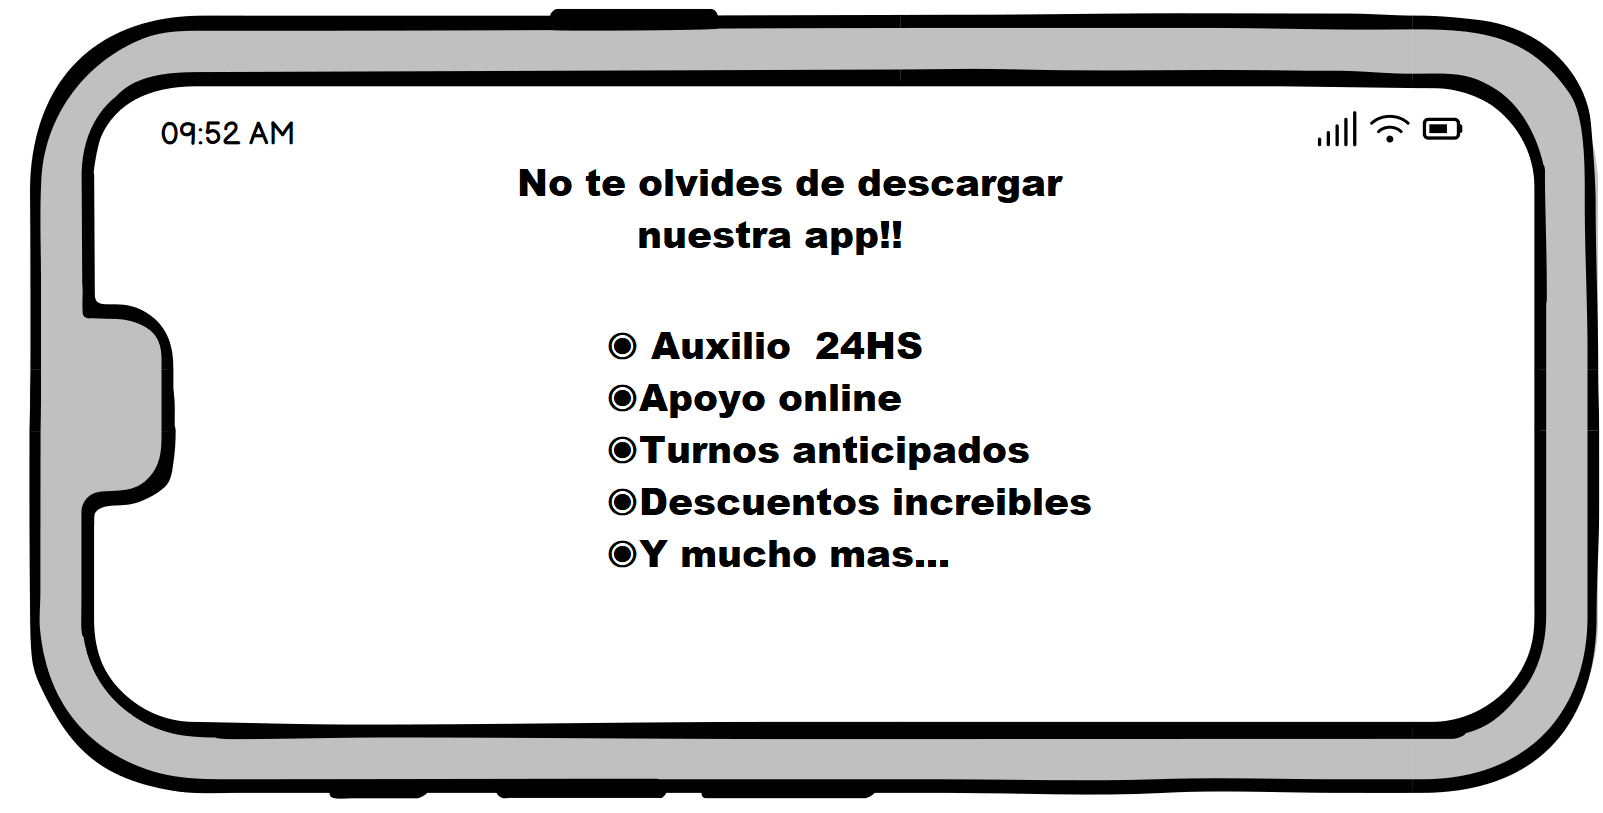
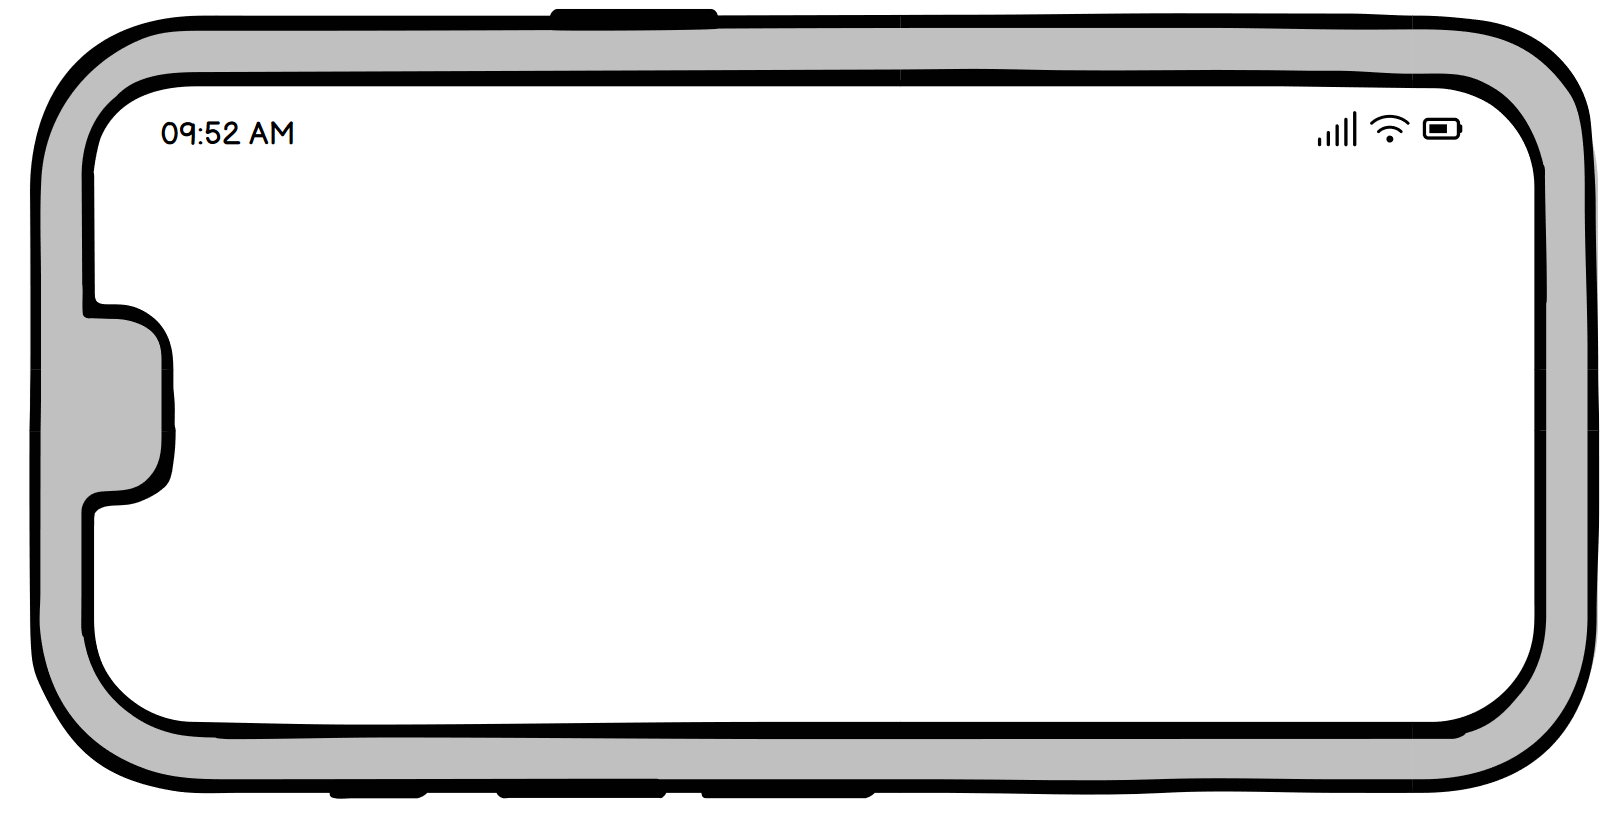
cambios en contacto e index

Changed region(s): [[0.3743, 0.3998, 0.6862, 0.7073], [0.3119, 0.2153, 0.6862, 0.246], [0.3743, 0.2768, 0.5614, 0.3075]]

diff --git a/css/main.css b/css/main.css
@@ -46,16 +46,37 @@ footer {
   .card .card-title {
     font-family: "kanit"; }
 
-.main-conta {
-  padding: 40px 20px; }
-  .main-conta .texto-conta {
-    font-family: "kanit"; }
-  .main-conta .formulario {
-    display: flex;
-    flex-direction: column; }
-  @media (max-width: 575.98px) {
-    .main-conta .mapa {
-      max-width: 100%; } }
+.main-conta .banner-conta {
+  width: auto;
+  height: 200px;
+  position: relative;
+  text-align: center; }
+  .main-conta .banner-conta img {
+    object-fit: cover;
+    width: 100%;
+    height: 100%; }
+  .main-conta .banner-conta h1 {
+    text-shadow: 3px 3px 3px #7c99b4;
+    font-family: "kanit";
+    color: #5B5750;
+    position: absolute;
+    top: 50%;
+    left: 50%;
+    transform: translate(-50%, -50%); }
+
+.main-conta .container-fluid {
+  padding: 40px 20px 40px 20px !important; }
+
+.main-conta .texto-conta {
+  font-family: "kanit"; }
+
+.main-conta .formulario {
+  display: flex;
+  flex-direction: column; }
+
+@media (max-width: 575.98px) {
+  .main-conta .mapa {
+    max-width: 100%; } }
 
 .main-equip .titulo-equip {
   padding: 40px 20px 30px;
@@ -114,13 +135,63 @@ footer {
   width: auto;
   max-height: 100%;
   display: flex;
+  align-items: center;
   justify-content: center;
-  align-items: center; }
+  position: relative;
+  text-align: center; }
   .main-index .container-celu .celu {
     max-width: 50%; }
     @media (max-width: 575.98px) {
       .main-index .container-celu .celu {
         max-width: 100%; } }
+  .main-index .container-celu .titulo-celu {
+    text-shadow: 3px 3px 3px #7c99b4;
+    font-family: "kanit";
+    color: #5B5750;
+    position: absolute;
+    top: 30%;
+    left: 50%;
+    transform: translate(-50%, -50%); }
+  .main-index .container-celu .item-1 {
+    text-shadow: 3px 3px 3px #7c99b4;
+    font-family: "kanit";
+    color: #5B5750;
+    position: absolute;
+    top: 40%;
+    left: 50%;
+    transform: translate(-50%, -50%); }
+  .main-index .container-celu .item-2 {
+    text-shadow: 3px 3px 3px #7c99b4;
+    font-family: "kanit";
+    color: #5B5750;
+    position: absolute;
+    top: 50%;
+    left: 50%;
+    transform: translate(-50%, -50%); }
+  .main-index .container-celu .item-3 {
+    text-shadow: 3px 3px 3px #7c99b4;
+    font-family: "kanit";
+    color: #5B5750;
+    position: absolute;
+    top: 60%;
+    left: 50%;
+    transform: translate(-50%, -50%); }
+  .main-index .container-celu .item-4 {
+    text-shadow: 3px 3px 3px #7c99b4;
+    font-family: "kanit";
+    color: #5B5750;
+    position: absolute;
+    top: 70%;
+    left: 50%;
+    transform: translate(-50%, -50%); }
+  .main-index .container-celu .item-5 {
+    text-shadow: 3px 3px 3px #7c99b4;
+    font-family: "kanit";
+    color: #5B5750;
+    position: absolute;
+    top: 80%;
+    left: 50%;
+    transform: translate(-50%, -50%); }
 
 main .titulo-tcn {
   padding: 40px 0px 10px;

diff --git a/scss/pages/index.scss b/scss/pages/index.scss
@@ -29,14 +29,71 @@
         width: auto;
         max-height: 100%;
         display: flex;
-        justify-content: center;
         align-items: center;
+        justify-content: center;
+        position: relative;
+        text-align: center;
+    
         .celu{
             max-width: 50%;
             @media (max-width: 575.98px) {
                 max-width: 100%;
                 }
           }
+        .titulo-celu{
+          text-shadow: 3px 3px 3px $color-primario;
+          font-family: $tipografia-1;
+          color: $color-secundario;
+          position: absolute;
+          top: 30%;
+          left: 50%;
+          transform: translate(-50%, -50%);
+        }
+        .item-1{
+          text-shadow: 3px 3px 3px $color-primario;
+          font-family: $tipografia-1;
+          color: $color-secundario;
+          position: absolute;
+          top: 40%;
+          left: 50%;
+          transform: translate(-50%, -50%);
+        }
+        .item-2{
+          text-shadow: 3px 3px 3px $color-primario;
+          font-family: $tipografia-1;
+          color: $color-secundario;
+          position: absolute;
+          top: 50%;
+          left: 50%;
+          transform: translate(-50%, -50%);
+        }
+        .item-3{
+          text-shadow: 3px 3px 3px $color-primario;
+          font-family: $tipografia-1;
+          color: $color-secundario;
+          position: absolute;
+          top: 60%;
+          left: 50%;
+          transform: translate(-50%, -50%);
+        }
+        .item-4{
+          text-shadow: 3px 3px 3px $color-primario;
+          font-family: $tipografia-1;
+          color: $color-secundario;
+          position: absolute;
+          top: 70%;
+          left: 50%;
+          transform: translate(-50%, -50%);
+        }
+        .item-5{
+          text-shadow: 3px 3px 3px $color-primario;
+          font-family: $tipografia-1;
+          color: $color-secundario;
+          position: absolute;
+          top: 80%;
+          left: 50%;
+          transform: translate(-50%, -50%);
+        }
         }
     
       

diff --git a/Pages/conta.html b/Pages/conta.html
@@ -42,18 +42,16 @@
             </nav>
           </header>
           <main class="main-conta">
-            <div class="container">
-              <div class="row">
-                <div class="col-xl-6 col-xxl-6 col-12">
-                  <h1 class="texto-conta">
-                  Contactanos via mail!
-                  </h1>
-                </div>
-              </div>
-            </div>
+            <div class="banner-conta">
+              <img src="../imagenes/banner contacto.jpg" alt="banner contacto">
+              <h1>Contactanos</h1>
+            </div> 
             <div class="container-fluid">
               <div class="row">
                 <div class="col-xl-6 col-xxl-6 col-12">
+                  <h2 class="texto-conta">
+                    Contactanos via mail
+                  </h2>
                   <form action="" method="" enctype="multipart/form-data">
                     <fieldset class="formulario">
                     <input class="subform" id="fullname" type="text" placeholder="Nombre"> 
@@ -66,7 +64,11 @@
                     <img src="../imagenes/1161954_instagram_icon.png" alt="" width="50px" height="50px">@MECANICAINTEGRAL
                   </h4>
                 </div>
+                
                 <div class="col-xl-6 col-xxl-6 col-12">
+                  <h2 class="texto-conta">
+                    O vení a conocernos!
+                  </h2>
                   <iframe class="mapa" src="https://www.google.com/maps/embed?pb=!1m18!1m12!1m3!1d3478927.370298863!2d-23.73028115074261!3d64.80138097246007!2m3!1f0!2f0!3f0!3m2!1i1024!2i768!4f13.1!3m3!1m2!1s0x48d22b52a3eb6043%3A0x6f8a0434e5c1459a!2sIslandia!5e0!3m2!1ses-419!2sar!4v1673575133069!5m2!1ses-419!2sar" width="600" height="400" style="border:0;" allowfullscreen="" loading="lazy" referrerpolicy="no-referrer-when-downgrade"></iframe>
                   <h2 class="texto-conta">
                     <img src="../imagenes/287637_whatsapp_icon.png" alt="" width="45px" height="45px">11.1111.1111

diff --git a/scss/pages/conta.scss b/scss/pages/conta.scss
@@ -1,5 +1,27 @@
 .main-conta{
-  padding: 40px 20px;
+  .banner-conta{
+    width: auto;
+    height: 200px;
+    position: relative;
+    text-align: center;
+    img{
+      object-fit: cover;
+      width:100%;
+      height:100%;
+    }
+    h1{
+      text-shadow: 3px 3px 3px $color-primario;
+      font-family: $tipografia-1;
+      color: $color-secundario;
+      position: absolute;
+      top: 50%;
+      left: 50%;
+      transform: translate(-50%, -50%);
+    }
+  }
+  .container-fluid{
+    padding: 40px 20px 40px 20px !important;
+  }
   .texto-conta{
     font-family: $tipografia-1;
     }

diff --git a/index.html b/index.html
@@ -68,6 +68,12 @@
             
             <div class="container-celu">
                 <img class="celu" src="./imagenes/celu.PNG" alt="">
+                <p class="titulo-celu">No te olvides de descargar nuestra app!</p>
+                <p class="item-1">◉ Auxilio 24HS</p>
+                <p class="item-2">◉ Apoyo online</p>
+                <p class="item-3">◉ Turnos anticipados</p>
+                <p class="item-4">◉ Descuentos increibles</p>
+                <p class="item-5">◉ Y mucho mas...</p>
             </div>
             <br>
         </main>
